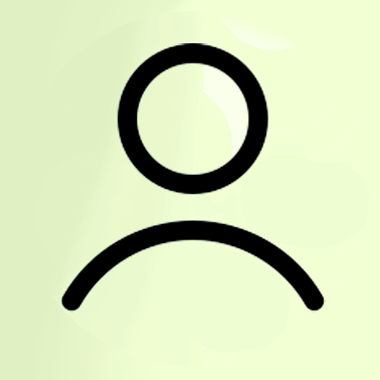
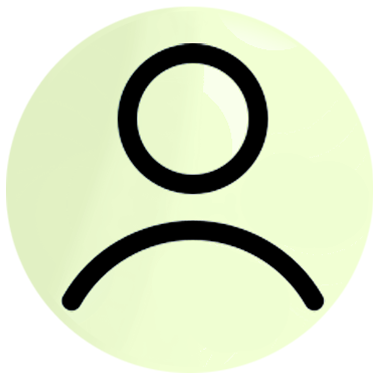
feat: Change in the responsive process of the 'Img-not-found' and 'User-black' resources

Changed region(s): [[0.0, 0.0, 1.0, 1.0]]

diff --git a/dependencies/BirDayBer_setUp.py b/dependencies/BirDayBer_setUp.py
@@ -114,6 +114,12 @@ class Birdayber_setUp(BirDayBer_DB.Birdayber_database):
             # Garbage icons
             elif img in ("garbage1.png", "garbage2.png"):
                 responsive_img.thumbnail(thumbnail_size(0.033, 0.007))
+            # Image adder icon (circular)
+            elif img in ("user-black.png"):
+                responsive_img.thumbnail(thumbnail_size(0.015, 0.0255))
+            # Image not found (user base image)
+            elif img in ("image-not-found.png.png"):
+                responsive_img.thumbnail(thumbnail_size(0.229, 0.408))
 
             # Gender icons
             elif img in ("male.png", "female.png"):
@@ -126,37 +132,6 @@ class Birdayber_setUp(BirDayBer_DB.Birdayber_database):
                 # Big icons
                 responsive_img = Image.open("%s//%s" % (location, img))
                 responsive_img.thumbnail(thumbnail_size(0.056, 0.069))
-
-            # Image adder icon (circular)
-            elif img in ("user-black.png"):
-                responsive_img.close()
-
-                circular_image = self.circular_imgs(
-                    f"{location}//{img}", f"{location}//mask.png")
-
-                responsive_img = Image.open(circular_image)
-                responsive_img.thumbnail(thumbnail_size(0.055, 0.087))
-
-                responsive_img.save("%s//responsive//%s" % (location, img))
-                responsive_img.close()
-                continue
-
-            # Image not found (user base image)
-            elif img in ("image-not-found.png.png"):
-                responsive_img.close()
-
-                circular_image = self.circular_imgs(
-                    f"{location}//{img}", f"{location}//mask.png")
-
-                responsive_img = Image.open(circular_image)
-                responsive_img.thumbnail(thumbnail_size(0.229, 0.408))
-
-                responsive_img.save("%s//responsive//%s" % (location, img))
-                responsive_img.close()
-                continue
-
-            responsive_img.save("%s//responsive//%s" % (location, img))
-            responsive_img.close()
 
     def circular_imgs(self, img, mask):
         """
